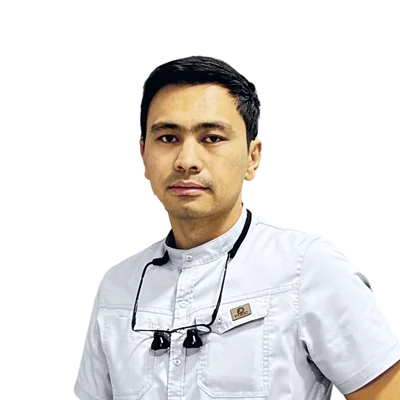
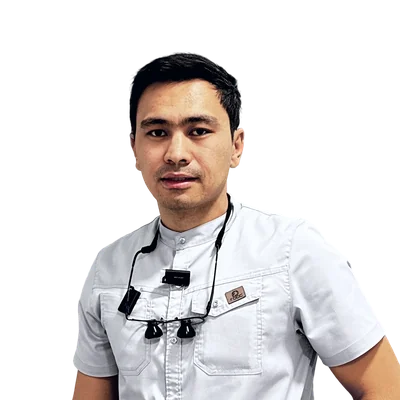
Часы 9:00–22:00, консультация 100 000 сум, kaplamalar, новое фото врача
Вместо «круглосуточно» везде приём с 9:00 до 22:00: заголовки, карточки времени,
чат записи, FAQ, контакты, разметка для поисковиков. Циферблат подсвечивает часы
приёма и пишет «открыто / закрыто» по времени Ташкента. Консультация 100 000 сум,
в узбекской версии kaplamalar вместо tojlar. Врач — новое фото: вырезка, кадр
«голова и плечи», желтизна кожи снята. Картинки для соцсетей пересняты.

diff --git a/src/scripts/site.js b/src/scripts/site.js
@@ -35,18 +35,26 @@
     const clock = dial.querySelector("[data-clock]");
     const caption = dial.querySelector("[data-clock-caption]");
     const status = dial.querySelector("[data-clock-status]");
+    const openAt = Number(dial.dataset.open);
+    const closeAt = Number(dial.dataset.close);
+    // «Открыто до 22:00» или «Закрыто, откроемся в 9:00» по времени Ташкента
+    const setStatus = (hours) => {
+      const isOpen = hours >= openAt && hours < closeAt;
+      status.textContent = isOpen ? status.dataset.live : status.dataset.closed;
+      dial.classList.toggle("is-closed", !isOpen);
+    };
     const place = (f) => {
       sun.style.transform = `rotate(${(f * 180).toFixed(2)}deg)`;
       progress.style.setProperty("--progress-offset", (1 - f).toFixed(4));
     };
     const now = () => {
       const { h, m } = tashkentNow();
-      return { f: (h + m / 60) / 24, text: `${pad(h)}:${pad(m)}` };
+      return { f: (h + m / 60) / 24, hours: h + m / 60, text: `${pad(h)}:${pad(m)}` };
     };
     const start = now();
     clock.textContent = start.text;
     caption.hidden = false;
-    status.textContent = status.dataset.live;
+    setStatus(start.hours);
     if (reduce) {
       place(start.f);
       sun.classList.add("is-on");
@@ -62,8 +70,9 @@
       requestAnimationFrame(step);
     }
     const tick = () => {
-      const { f, text } = now();
+      const { f, hours, text } = now();
       clock.textContent = text;
+      setStatus(hours);
       place(f);
     };
     const schedule = () =>

diff --git a/src/styles/site.css b/src/styles/site.css
@@ -692,6 +692,14 @@ p {
   height: auto;
   overflow: visible;
 }
+/* часы приёма: мягкая полоса поверх дуги */
+.dial-open {
+  fill: none;
+  stroke: var(--accent);
+  stroke-width: 20;
+  stroke-linecap: round;
+  opacity: 0.8;
+}
 .dial-track {
   fill: none;
   stroke: var(--line-strong);
@@ -725,9 +733,10 @@ p {
   font: 300 34px var(--font-text);
   letter-spacing: -0.02em;
 }
-.dial-part {
-  fill: var(--muted);
-  font: 500 28px var(--font-text);
+.dial-open-label {
+  fill: var(--accent-strong);
+  font: 700 26px var(--font-text);
+  letter-spacing: -0.01em;
 }
 .dial-horizon {
   stroke: var(--line-strong);
@@ -783,6 +792,9 @@ p {
   border-radius: 50%;
   background: var(--accent-strong);
 }
+.dial.is-closed .dial-dot {
+  background: var(--muted);
+}
 @media (max-width: 600px) {
   .hero-dial.wrap {
     padding-inline: 10px;
@@ -793,8 +805,8 @@ p {
   .dial-num {
     font-size: 54px;
   }
-  .dial-part {
-    font-size: 44px;
+  .dial-open-label {
+    font-size: 40px;
   }
   .dial-tick.is-half {
     display: none;
@@ -2810,7 +2822,7 @@ p {
     animation-delay: calc(360ms + var(--i) * 10ms);
   }
   .js .dial-num,
-  .js .dial-part,
+  .js .dial-open-label,
   .js .dial-readout {
     animation: fade 700ms ease both;
     animation-delay: 600ms;

diff --git a/README.md b/README.md
@@ -17,12 +17,13 @@ node scripts/serve.mjs
 
 ## Идея дизайна
 
-Клиника принимает круглосуточно, поэтому главный элемент — время суток:
+Клиника принимает с 9:00 до 22:00, поэтому главный элемент — время суток:
 
 - **Первый экран:** циферблат от 00:00 до 24:00, похожий на путь солнца по небу; текущее время Ташкента идёт по нему
-  голубой точкой.
-- **«Приходите, когда удобно вам»:** четыре карточки-окна в сутки (утро, день, вечер, ночь) с нарисованным небом,
-  солнцем или луной и огнями в окнах ночью. Небо не меняется при прокрутке; карточки только мягко появляются, а
+  голубой точкой. Часы приёма 9:00–22:00 подсвечены полосой, под временем написано «Открыто до 22:00» или «Закрыто,
+  откроемся в 9:00». Часы берутся из `hours` в `src/content/business.mjs`.
+- **«Приходите, когда удобно вам»:** четыре карточки-окна в часы приёма (утро, обед, после работы, поздний вечер) с нарисованным небом,
+  солнцем или луной и огнями в окнах вечером. Небо не меняется при прокрутке; карточки только мягко появляются, а
   светило один раз медленно встаёт на место. Кнопка на карточке подставляет это время в сообщение врачу. На телефоне
   карточки идут лентой, которую листают вбок.
 - **Две темы:** дневная и ночная. С 20:00 до 06:00 по Ташкенту сайт открывается в ночной, днём — в дневной;
@@ -49,12 +50,12 @@ node scripts/serve.mjs
 
 После правок снова запустите `node scripts/build.mjs`.
 
-**Цены.** На сайте цен нет: клиника их не публикует, а 2ГИС и соцсети их не дают. Когда появится прайс, его можно
-добавить в `services` в словарях (поле с ценой «от») и вывести в плитках услуг.
+**Цены.** На сайте указана только цена консультации — 100 000 сум. Цену лечения врач называет после осмотра. Когда
+появится прайс, его можно добавить в `services` в словарях (поле с ценой «от») и вывести в плитках услуг.
 
-**Фото врача.** Сейчас вместо фото — инициалы в круге с делениями. Положите квадратный снимок (от 800×800, лучше
-оригинал с телефона) в `public/img/doctor.webp` и укажите `photo: "img/doctor.webp"` в `src/content/business.mjs`.
-Для страницы `/uz/` путь станет `../img/doctor.webp` — проще указать абсолютный `/img/doctor.webp`.
+**Фото врача.** Вырезка на прозрачном фоне в `public/img/doctor-400.webp` и `doctor-800.webp` (квадрат, голова
+и плечи), фон в круге рисует сайт. Новое фото кладите под теми же именами; без `photo` в `src/content/business.mjs`
+в круге будут инициалы.
 
 **Картинки для соцсетей.** После изменения заголовка: `node scripts/og.mjs`, затем `node scripts/build.mjs`.
 Скрипт снимает шаблоны через Chrome (нужен установленный Chrome или Edge) скриптом `page_shots.mjs` из skill студии.
@@ -66,7 +67,7 @@ node scripts/serve.mjs
 - **Telegram** — личный чат врача `@toshkent_stomatolog_sirojiddin` с готовым текстом. Посетителю остаётся нажать
   «Отправить», сообщение приходит врачу от самого пациента.
 - **WhatsApp** — номер `+998 88 878 87 88` с тем же текстом. Номер в WhatsApp не проверен (см. ниже).
-- Сборщик сообщения в разделе «Записаться можно на любой час» подставляет в текст выбранное время и повод.
+- Сборщик сообщения в разделе «Запись за минуту» подставляет в текст выбранное время и повод.
 
 Сайт ничего не хранит и не отправляет сам. Аналитики и счётчиков нет. Ссылки помечены `data-track`, чтобы при
 желании владельца подключить счётчик звонков и переходов.
@@ -101,10 +102,10 @@ Actions (`.github/workflows/pages.yml`) примерно за минуту. Че
 
 | Факт | Источник |
 |---|---|
-| Название, адрес, 1 этаж, индекс, телефоны, «круглосуточно, по предварительной записи», оплата картой, наличными и переводом, направления (хирург, ортодонт, ортопед, имплантация, пародонтолог, гнатолог, детский терапевт, детский ортодонт, лечение под микроскопом детям), бесплатная консультация, оценка 5 и 1 отзыв | Карточка 2ГИС https://2gis.uz/tashkent/firm/70000001076934122 |
+| Название, адрес, 1 этаж, индекс, телефоны, оплата картой, наличными и переводом, направления (хирург, ортодонт, ортопед, имплантация, пародонтолог, гнатолог, детский терапевт, детский ортодонт, лечение под микроскопом детям), оценка 5 и 1 отзыв | Карточка 2ГИС https://2gis.uz/tashkent/firm/70000001076934122 |
 | Координаты 41.298831, 69.211719; ближайшее метро «Новза» | 2ГИС; Яндекс Карты (та же точка, разница меньше 30 м) |
 | Ориентир «круг Актепа» (Октепа) | Instagram @dentup_kids, Telegram-канал @toshkent_stomatolog |
-| «Стоматология 24/7», услуги: импланты, брекеты, виниры, коронки, удаление | Instagram @dentup_kids |
+| Услуги: импланты, брекеты, виниры, коронки, удаление | Instagram @dentup_kids |
 | Врач Sirojiddin Abduxaliqov | Профиль Telegram @toshkent_stomatolog_sirojiddin |
 | Имплантолог, ортопед, PhD, опыт 8 лет | Instagram врача @sirojiddinstomatolog (описание профиля, пост от 19.05.2026) |
 | Одномоментная имплантация, циркониевые и металлокерамические коронки, замена золотых коронок на циркониевые, композитная реставрация, керамические виниры | Посты @sirojiddinstomatolog за 2025–2026 |
@@ -113,10 +114,11 @@ Actions (`.github/workflows/pages.yml`) примерно за минуту. Че
 | Отзыв мамы пациентки 3,5 лет | 2ГИС, 28.04.2026, без имени автора |
 
 | Адрес с квартирой: дом 26, кв. 51 | Владелец проекта, 18.11.2026 |
+| Часы приёма 9:00–22:00, консультация 100 000 сум, в узбекском «kaplamalar» вместо «tojlar» | Владелец проекта, 19.11.2026 |
 
 ## Фотографии
 
-Все снимки прислал владелец проекта 18.11.2026. Стоковых и сгенерированных изображений на сайте нет; остальное —
+Все снимки прислал владелец проекта 18–19.11.2026. Стоковых и сгенерированных изображений на сайте нет; остальное —
 нарисованная графика (циферблат, небо в карточках, иконки). Оригиналы (`*.HEIC`, `IMG_*.JPG`, `photo_*.jpg` в корне
 проекта) в репозиторий не попадают (`.gitignore`).
 
@@ -126,7 +128,7 @@ Actions (`.github/workflows/pages.yml`) примерно за минуту. Че
 | `hall-800/1600.webp` | IMG_8744.HEIC | Зона ожидания | «Клиника в Чиланзаре» |
 | `entrance-800/1600.webp` | IMG_6128.HEIC | Вход с улицы, вывеска | «Клиника в Чиланзаре» |
 | `entrance-door-600/1200.webp` | IMG_6128.HEIC | Фасад и вход | «Как нас найти», над картой |
-| `doctor-400/800.webp` | IMG_6203.HEIC | Врач, вырезан из фона | Раздел «Врач», в круге |
+| `doctor-400/800.webp` | smile.HEIC | Врач, вырезан из фона | Раздел «Врач», в круге |
 | `case-caries-before/after-500/1000.webp` | IMG_3924.JPG, IMG_3926.JPG | Зуб до и после лечения кариеса | «До и после» |
 | `case-xray-before/after-600/1200.webp` | photo_…31-40.jpg, photo_…31-46.jpg | Рентген во время и после имплантации | «До и после» |
 
@@ -135,8 +137,9 @@ Actions (`.github/workflows/pages.yml`) примерно за минуту. Че
 - **Клиника:** лёгкое шумоподавление, кадр 3:4 для всех трёх фото, голубо-серебристая цветокоррекция без жёлтого
   (`grade.py --silver`): плёночная кривая, холодные тени, жёлтые и бежевые тона уводятся в серебристый, синие
   сохраняют глубину, мягкая чёткость, свечение светлых мест, виньетка, мелкое зерно.
-- **Врач:** нейросетевая маска BiRefNet, вырезка с восстановлением цвета краёв, убран зелёный предмет за спиной,
-  форма в серебристых тонах, кожа защищена маской и осталась естественной. Фон в круге рисует сайт: голубой днём,
+- **Врач:** нейросетевая маска BiRefNet, вырезка с восстановлением цвета краёв, кадр «голова и плечи». Желтизна
+  кожи снята (жёлтая составляющая с 32 до 22 единиц Lab), добавлена капля розового и чуть света на лицо; форма
+  и волосы в холодных серебристых тонах. Фон в круге рисует сайт: голубой днём,
   тёмно-синий ночью.
 - **До и после:** маленькие снимки увеличены в 4 раза Real-ESRGAN со смешиванием с оригиналом. Цвета клинических
   фото не менялись, чтобы результат лечения выглядел честно; рентген тонирован из тёмно-синего в ледяной.
